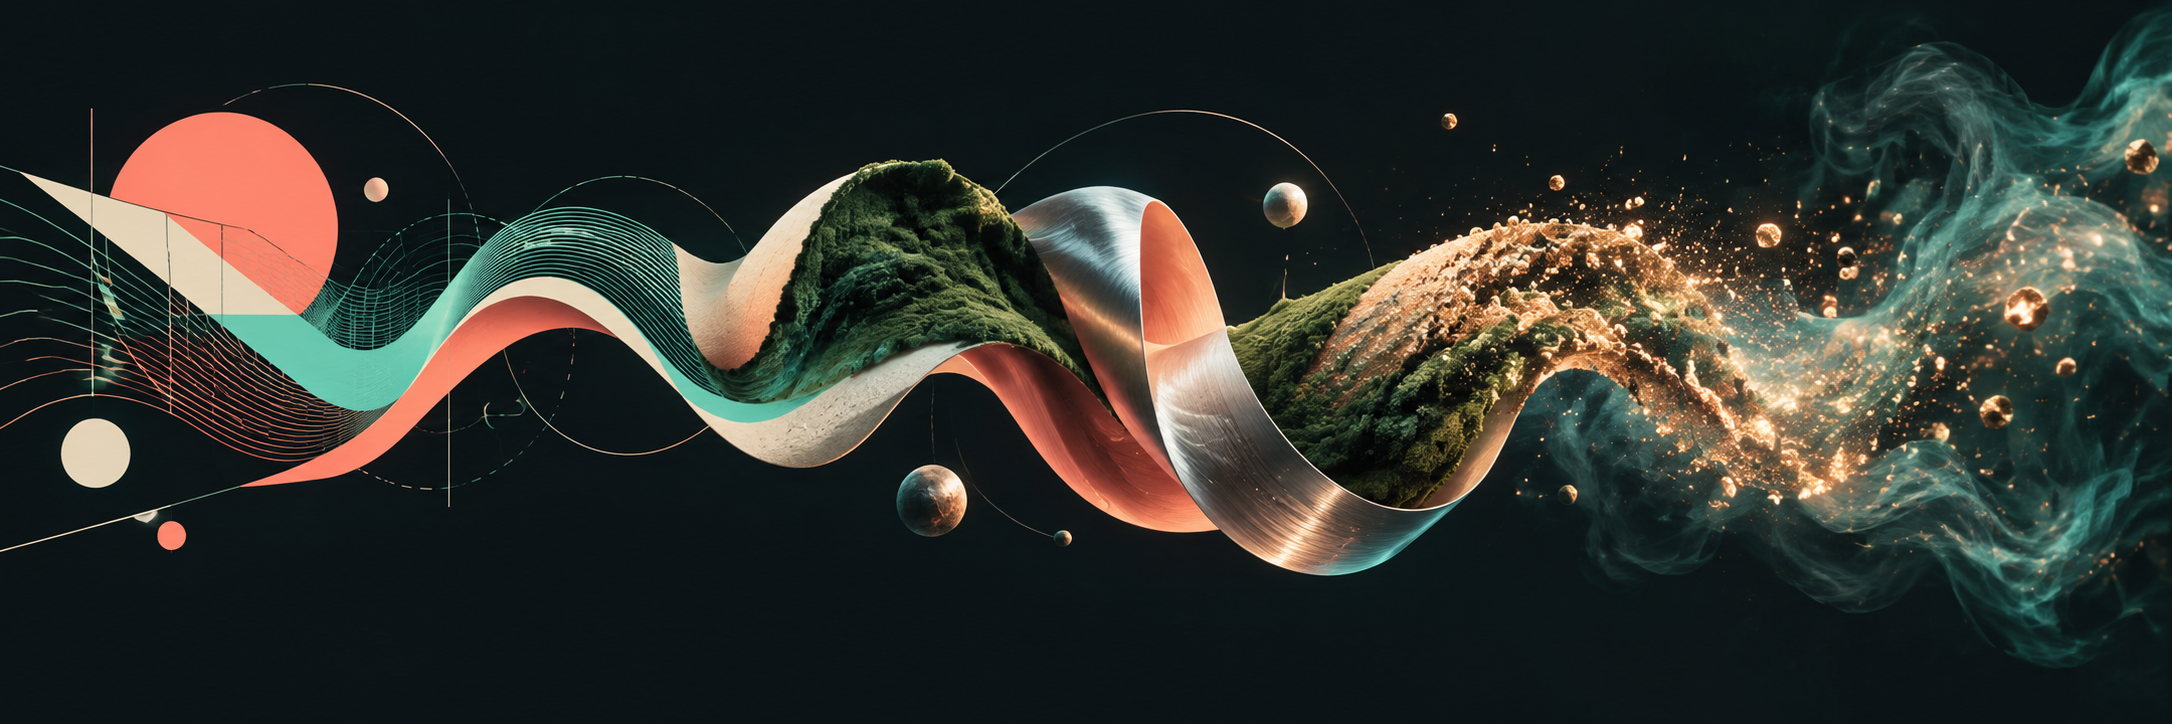
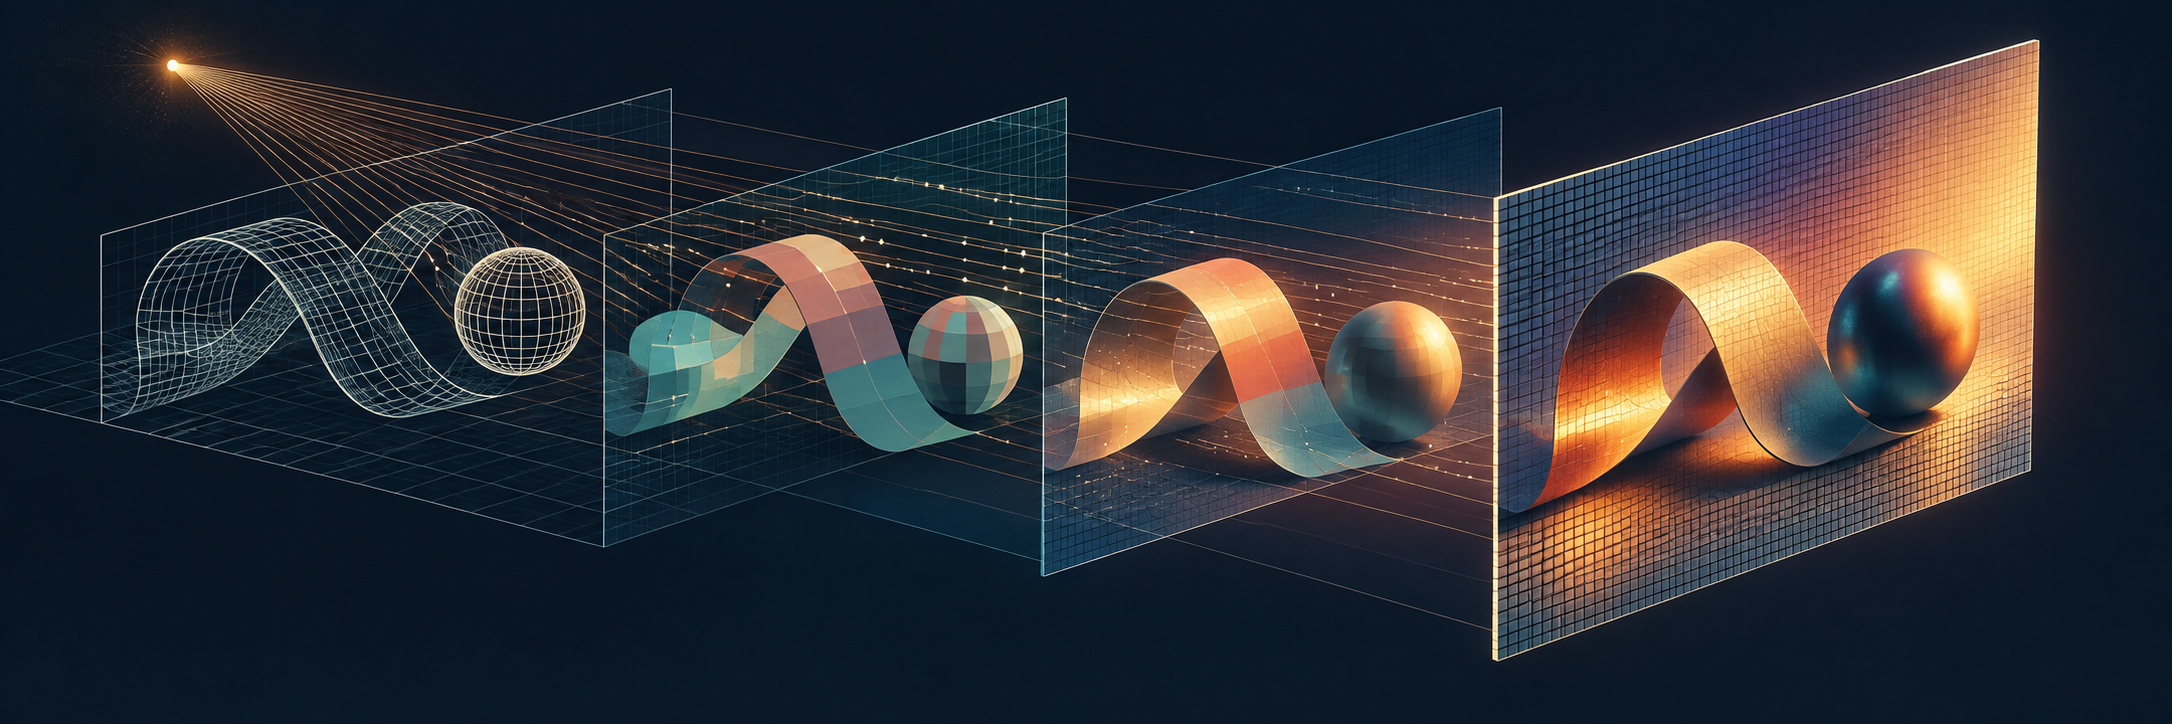
docs: replace hero with rendering process artwork

diff --git a/README.md b/README.md
@@ -12,9 +12,7 @@
 > output formats, and runtime APIs are also in flux. Expect breaking changes as the
 > design evolves; completed implementation milestones are not stability guarantees.
 
-![Abstract shapes flowing into sculpted materials, glowing particles, and translucent smoke](docs/readme/fresco-hero.png)
-
-*Concept artwork illustrating Fresco's ambition; rendered examples appear below.*
+![Geometry, surface color, and light composing through layered planes into a final pixel image](docs/readme/fresco-hero.png)
 
 **Write procedural pictures, materials, and particle systems. Compile them into GPU shaders.**
 
